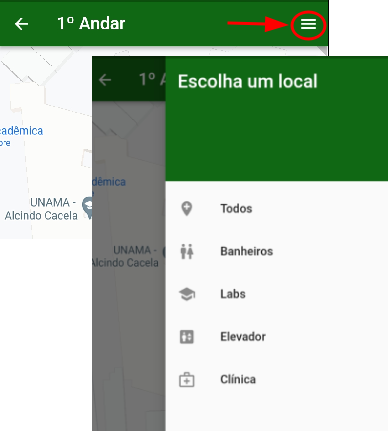
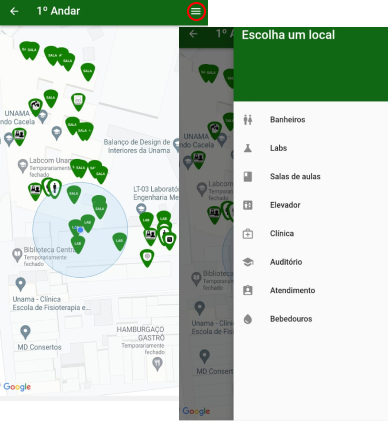
fix: remoção de bug

diff --git a/lib/app/features/map/presenter/map_screen.dart b/lib/app/features/map/presenter/map_screen.dart
@@ -62,23 +62,6 @@ class _MapScreenState extends State<MapScreen> {
               onTap: () {
                 markers.clear();
                 setState(() {
-                  _cubit.getUserPosition(widget.andar);
-                });
-                Navigator.pop(context);
-                Builder(
-                  builder: (context) {
-                    Scaffold.of(context).closeEndDrawer();
-                    return const SizedBox.shrink();
-                  },
-                );
-              },
-              title: const Text('Todos'),
-              leading: const Icon(Icons.add_location),
-            ),
-            ListTile(
-              onTap: () {
-                markers.clear();
-                setState(() {
                   _cubit.filter('Banheiros', widget.andar);
                 });
                 Navigator.pop(context);
